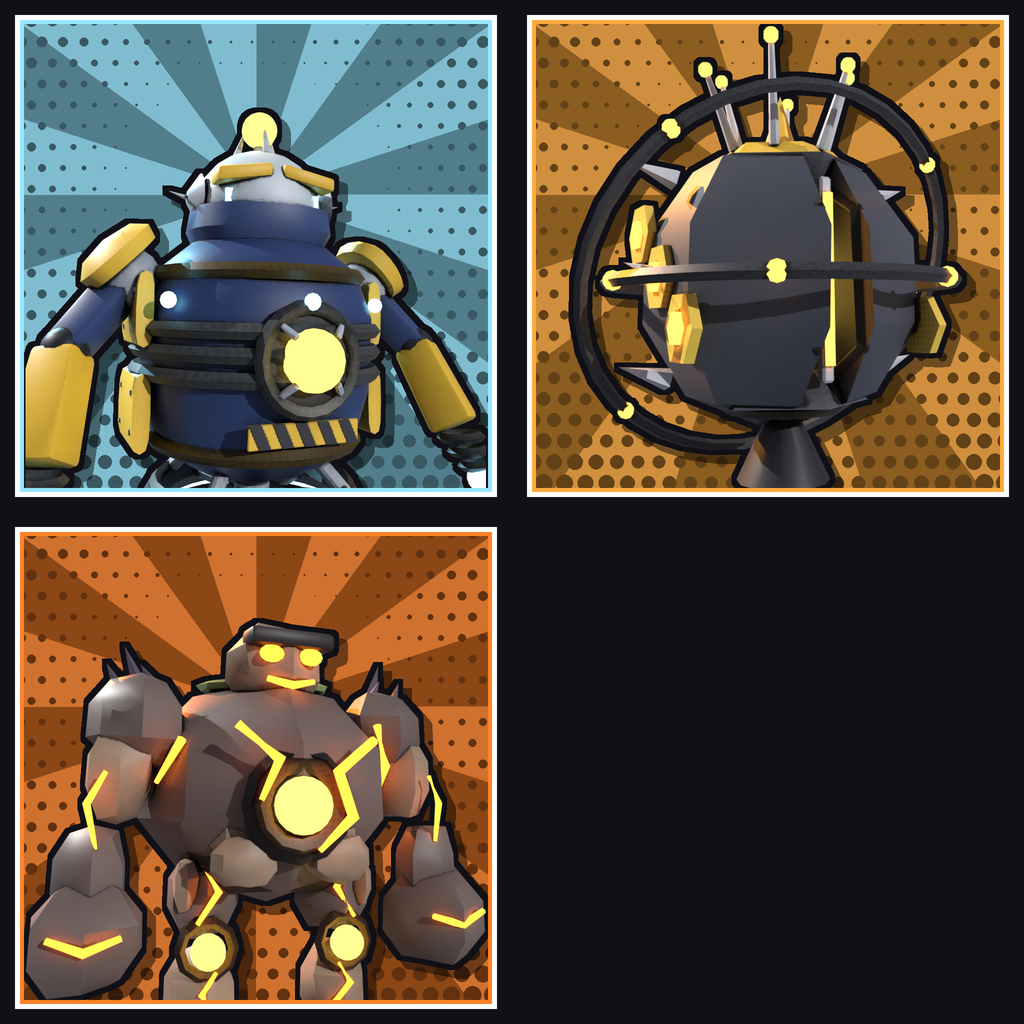
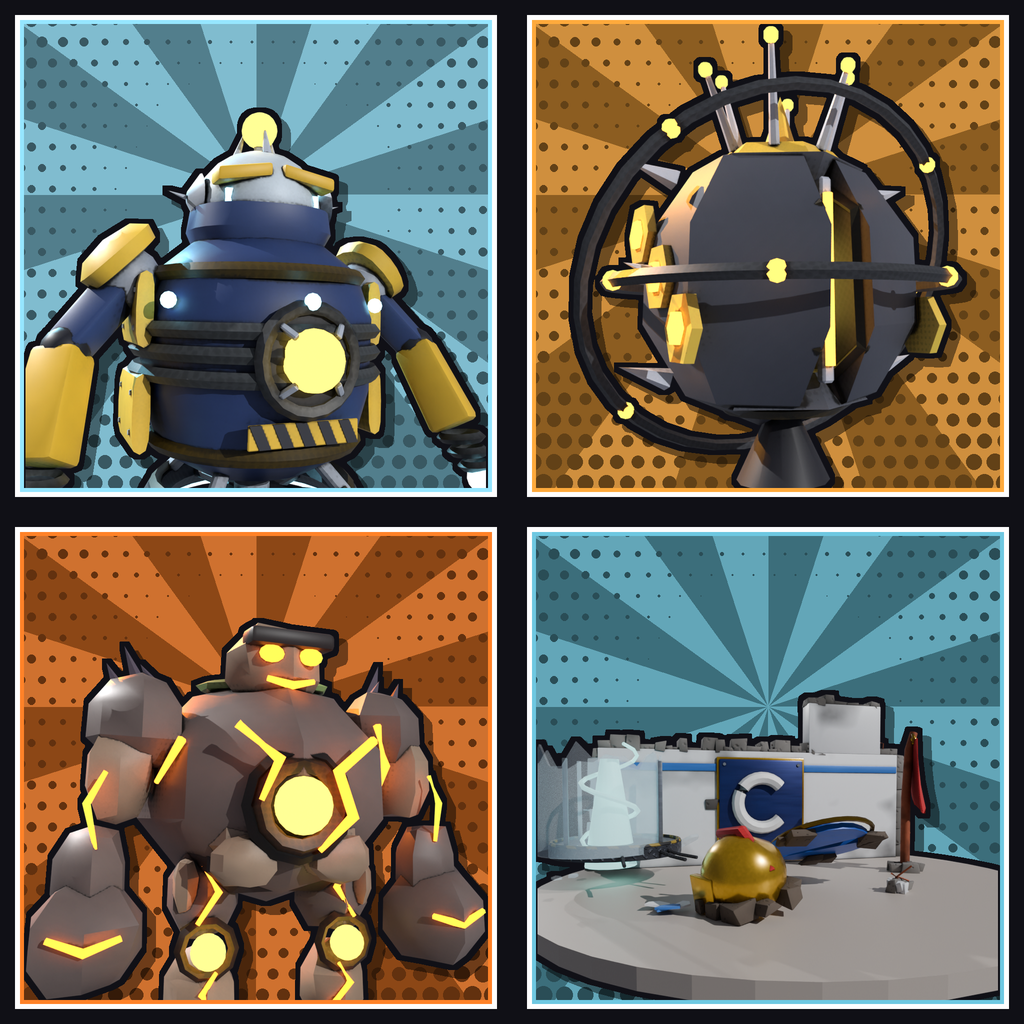
Art placeholders: the Crater's name card picture from its own meshes (Everything Left 403)
Claude-Session: https://claude.ai/code/session_01WrbiZfLxZ7sXqWZg3BvhRn

Changed region(s): [[0.5, 0.5, 1.0, 1.0]]

diff --git a/art/blender/place_cards.py b/art/blender/place_cards.py
@@ -1,0 +1,97 @@
+# place_cards.py: the places' name card pictures (list-combat 2026-11-20, Everything Left 403: "Places on the news
+# cards have no picture (text on the plate), for example the Crater"). Stages the game's own meshes for a place into
+# one comic shot on a clear background, into build/news/raw/place_<id>.png; art/news/post.py inks it onto the cards'
+# sheet like the boss portraits (Config.NewsArt.cards.places, Ui.CinemaHud's card picture).
+#   crater  The Crater (Config.Cinema.nameCard.places.crater): Crane Industries' broken lab wall with its C, a cracked
+#           containment tank with the Spark still glowing in it, and the old heroes' relics in front: the torn red
+#           cape on its rebar, the cracked blue shield half sunk in the dirt, the dented gold helmet (art/export/
+#           Crater.fbx with its baked textures). No person is drawn.
+# Run: $HOME/tools/bpyenv/bin/python art/blender/place_cards.py [--fast]
+import math
+import os
+import sys
+
+sys.path.insert(0, os.path.dirname(__file__))
+import kit  # noqa: E402
+import bpy  # noqa: E402
+from mathutils import Vector  # noqa: E402
+
+kit.reset()
+ROOT = os.path.dirname(kit.ROOT)
+OUT = os.path.join(ROOT, "build", "news", "raw")
+os.makedirs(OUT, exist_ok=True)
+FAST = "--fast" in sys.argv
+
+
+def load(fbx):
+    before = set(bpy.data.objects)
+    bpy.ops.import_scene.fbx(filepath=fbx)
+    got = {}
+    for o in set(bpy.data.objects) - before:
+        if o.type == "MESH":
+            got[o.name.split(".")[0]] = o
+        else:
+            bpy.data.objects.remove(o, do_unlink=True)
+    return got
+
+
+def clear_parent(o):
+    m = o.matrix_world.copy()
+    o.parent = None
+    o.matrix_world = m
+
+
+def place(o, at, yaw=0.0, tilt=(0.0, 0.0)):
+    clear_parent(o)
+    o.rotation_mode = "XYZ"
+    o.rotation_euler = (math.radians(tilt[0]), math.radians(tilt[1]), math.radians(yaw))
+    o.location = at
+    o.hide_render = False
+
+
+def crater():
+    obs = load(os.path.join(kit.ROOT, "export", "Crater.fbx"))
+    for o in obs.values():
+        o.hide_render = True
+    glass = kit.material("glass", (170, 220, 255))
+    try:
+        b = glass.node_tree.nodes.get("Principled BSDF")
+        b.inputs["Alpha"].default_value = 0.25
+        glass.blend_method = "BLEND"
+    except Exception:
+        pass
+    glow = kit.material("glow", (90, 240, 230), emit=1.5)
+    visor = kit.material("visor", (30, 40, 60))
+    # the scene: Blender x across, y away from the camera, z up (studs)
+    place(obs["CraterWall3Body"], (0, 12, 8), yaw=0)
+    place(obs["CraterTank1Body"], (-13, 5, 6))
+    for n, mat in (("CraterTank1Glass", glass), ("CraterTank1Glow", glow)):
+        place(obs[n], (-13, 5, 6))
+        obs[n].data.materials.clear()
+        obs[n].data.materials.append(mat)
+    place(obs["CraterCapeBody"], (11, 4, 6), yaw=-20)
+    place(obs["CraterShieldBody"], (1, -1, 3.2), yaw=8, tilt=(-28, 0))
+    place(obs["CraterHelmetBody"], (-5.5, -5, 2.4), yaw=30, tilt=(0, -12))
+    place(obs["CraterHelmetVisor"], (-5.5, -5, 2.4), yaw=30, tilt=(0, -12))
+    obs["CraterHelmetVisor"].data.materials.clear()
+    obs["CraterHelmetVisor"].data.materials.append(visor)
+    place(obs["CraterBitRubbleBody"], (6, -3, 0.8), yaw=40)
+    place(obs["CraterBitPlatesBody"], (-10, -4, 0.3), yaw=-20)
+    # the dirt floor, cut to a disc so the card's backdrop shows round it
+    bpy.ops.mesh.primitive_cylinder_add(radius=19, depth=1, location=(0, 3, -0.5), vertices=48)
+    floor = bpy.context.active_object
+    floor.data.materials.append(kit.material("dirt", (120, 104, 92)))
+    shot("crater", cam=(-11, -30, 7), to=(-2, 3, 5.5), lens=34)
+
+
+def shot(pid, cam, to, lens):
+    s = bpy.context.scene
+    kit.studio(res=(900, 900), samples=12 if FAST else 48)
+    s.render.film_transparent = True
+    kit.camera(cam, to, lens=lens)
+    path = os.path.join(OUT, "place_%s.png" % pid)
+    kit.render(path)
+    print("place card:", path)
+
+
+crater()

diff --git a/art/news/post.py b/art/news/post.py
@@ -47,6 +47,11 @@ BOSSES = [
     ("SwarmQueen", (255, 170, 60)),
     ("QuarryTitan", (255, 130, 40)),
 ]
+# the places' cards (Config.Cinema.nameCard.places; list-combat 2026-11-20, Everything Left 403): the staged shot
+# from art/blender/place_cards.py (build/news/raw/place_<id>.png), inked the same way, in the sheets' free cells
+PLACES = [
+    ("crater", (110, 200, 225)),  # the Crater card's slash colour
+]
 SHEETS = ("NewsCards.png", "NewsCards2.png")
 PLATE = (1024, 288)
 PLATE_SLICE = (48, 44, 72, 44)  # left, top, right, bottom margins kept unstretched
@@ -64,8 +69,8 @@ def ss(size, k=2):
 
 
 # ------------------------------------------------------------------ the boss portraits
-def portrait(bid, rgb):
-    raw = os.path.join(RAW, "boss_%s.png" % bid)
+def portrait(bid, rgb, raw_name=None):
+    raw = os.path.join(RAW, raw_name or ("boss_%s.png" % bid))
     if not os.path.isfile(raw):
         return None
     fig = Image.open(raw).convert("RGBA")
@@ -93,9 +98,11 @@ def cards_sheet():
         path = os.path.join(OUT, name)
         old = Image.open(path).convert("RGB") if os.path.isfile(path) else None
         sheet = Image.new("RGB", (CELL * 2, CELL * 2), INK)
-        for i, (bid, rgb) in enumerate(BOSSES[s * 4:s * 4 + 4]):
+        entries = BOSSES + [("place:" + pid, rgb) for (pid, rgb) in PLACES]
+        for i, (bid, rgb) in enumerate(entries[s * 4:s * 4 + 4]):
             c, r = i % 2, i // 2
-            img = portrait(bid, rgb)
+            raw = "place_%s.png" % bid[6:] if bid.startswith("place:") else None
+            img = portrait(bid, rgb, raw)
             if img is None:
                 if old is None:
                     raise SystemExit("post.py: no render and no old sheet for " + bid)
@@ -271,6 +278,14 @@ def write_config(at, ids):
     ]
     for bid, _ in BOSSES:
         lines.append("\t\t\t%s = { %d, %d, %d }," % (bid, at[bid][0], at[bid][1], at[bid][2]))
+    lines += [
+        "\t\t},",
+        "\t\t-- the places' cards (Config.Cinema.nameCard.places), in the same sheets",
+        "\t\tplaces = {",
+    ]
+    for pid, _ in PLACES:
+        k = "place:" + pid
+        lines.append("\t\t\t%s = { %d, %d, %d }," % (pid, at[k][0], at[k][1], at[k][2]))
     lines += [
         "\t\t},",
         "\t},",

diff --git a/notes/Tasks.md b/notes/Tasks.md
@@ -79,7 +79,7 @@ Pick the Swing mobility (creator or a safehouse). Preview of the maths over a re
 - Lore step 9 the Crater (2026-11-17; art pass 2026-11-19, gap-wrecks): the blasted Crane lab wears Blender meshes with baked texture sets over its boxes (art/blender/crater.py, Art.Crater, Config.CraterArt, Shared.CraterArtKit): 7 broken white lab walls with soot, rebar and the Crane C plate, the fallen wall chunk, 3 cracked glass tanks with their Spark glow, 2 toppled lab towers, the robot husk pile and the old heroes' relics (the torn red cape on its rebar, the cracked shield emblem, the half-buried gold helmet), plus loose lab bits per preset (Fx.CraterDecor: none on low). The boxes are hidden but kept exactly as they were (collision unchanged, tested); nothing imported shows today's kit parts (Studio list "Wrecks and the Crater"). Since 2026-11-19 (gap-fx3) the floor and rim wear their own ground (MaterialVariants KitCraterFloor, the cracked ash floor with scorch blotches and glassed spots, and KitCraterRim, the upthrown rock strata; art/city/crater_materials.py, Organic pattern, uploaded; Config.World.crater.ground, CaveRock until in) and the 10 burn strips wear 3 comic burn scar decals (art/fx/textures.py --scars, uploaded; Config.World.crater.scars.decals), boxes and collision unchanged (Studio list "Crater ground and throw particles"). Still plain: the 4 small husks' kit parts and the rim's 16 straight segments (no sculpted mesh). The Your double name card is the boss card's frames. PLACEHOLDER ART for those.
 - Lore step 8 world bosses (2026-11-17): the new Blender looks (art/export/Bosses.fbx + art/export/bosses/*.png) are imported (art/models/Bosses.rbxm, 87 meshes with their texture sets; checked 2026-11-20); the part-built looks (Config.BossArt parts, previews art/preview/boss_<Boss>_parts.png) show only if the set is missing. Rustjaw's sparks and the Leviathan's mist are pooled FxLib particles, the Maw's light streams 8 pooled Neon streaks; no animation beyond moving, turning, landing and sinking. Bulwark's battle form wears Bulwark's own look since 2026-11-20 (blue, silver, electric yellow, Hex Badge, Great Pauldrons, tower shield; Art.Bosses re-uploaded); only its WorldFx parts fallback is PLACEHOLDER ART. PLACEHOLDER ART.
 - Lore step 11 chain 1, The Hero Academy: the Halo Academy pocket (PocketLayout "academy": the school floor, classrooms with desk boxes and blackboards, the training hall's mats, dummies and hoops, Halo's statue, the bookcase, the stairs and the copier workshop's pods, conveyor and half-built robots) wears the pocket kit; its desks, chairs, hall lockers, dummies and pod pads are Blender meshes since 2026-11-19 (gap-props2, Art.PocketProps), the blackboards, hoops, statue, bookcase, conveyor and half-built robots stay boxes; the HALO ACADEMY sign by the door is plain parts with a text label; the field trip bus is the motorcade box; Wren's comic panels (school, scan) are rendered art (Config.ComicArt, 2026-11-19); Gus's and Wren's and Halo's guide portraits are rendered comic busts (Config.ComicArt, 2026-11-19). Gus and Headmaster Halo wear real creator looks. PLACEHOLDER ART.
-- Lore step 7 cinematic layer: art done 2026-11-19. The comic-panel pages are rendered art (Config.ComicArt, 64 panels: art/blender/panels.py + scenes.py, art/panels/post.py); the big news screens and the plaza screen's frame are Blender looks with baked texture sets (gap-news: art/blender/screens.py, Art.News, Config.ScreenArt, Shared.NewsArtKit; NewsService hides the plain frame and legs, the screen part and collisions unchanged); the boss name card is a drawn comic plate with each world boss's rendered comic portrait (event cards such as Your double show the event's icon) and the corner TV sits in a drawn comic TV case with the channel's lighthouse mark on its band and on every big screen's band (art/blender/boss_cards.py, art/news/post.py, Config.NewsArt; previews art/preview/news_screens.png, news_art.png). All words stay UI text. The frame-drawn fallbacks stay for an id of 0. The side quest finale villains' cards show each villain's rendered portrait since 2026-11-19 (gap-villains: art/panels/villains.py, Config.VillainArt, Shared.VillainCards). Still open: the places' cards (the Crater's) have no picture (text on the plate); the battle form's title waits for its pass.
+- Lore step 7 cinematic layer: art done 2026-11-19. The comic-panel pages are rendered art (Config.ComicArt, 64 panels: art/blender/panels.py + scenes.py, art/panels/post.py); the big news screens and the plaza screen's frame are Blender looks with baked texture sets (gap-news: art/blender/screens.py, Art.News, Config.ScreenArt, Shared.NewsArtKit; NewsService hides the plain frame and legs, the screen part and collisions unchanged); the boss name card is a drawn comic plate with each world boss's rendered comic portrait (event cards such as Your double show the event's icon) and the corner TV sits in a drawn comic TV case with the channel's lighthouse mark on its band and on every big screen's band (art/blender/boss_cards.py, art/news/post.py, Config.NewsArt; previews art/preview/news_screens.png, news_art.png). All words stay UI text. The frame-drawn fallbacks stay for an id of 0. The side quest finale villains' cards show each villain's rendered portrait since 2026-11-19 (gap-villains: art/panels/villains.py, Config.VillainArt, Shared.VillainCards). The places' cards show a staged picture since 2026-11-20 (list-combat: the Crater's broken Crane lab wall, a cracked tank and the old heroes' relics from Art.Crater's meshes, art/blender/place_cards.py, inked by art/news/post.py into NewsCards2's free cell, Config.NewsArt.cards.places). The battle form's title waits for its pass.
 - Lore step 11 chain 2, The Gala Heist (2026-11-17): the Museum Gala and the Racers' Meet set pieces in Downtown's open squares (Shared.SideQuestSets: carpet, stage, curtains, marquee, chandelier, exhibit cases, seats, spotlights; start line, gantry and lights, 3 box cars, tyre stacks, fuel drums, DJ booth, floodlights, ramp) are greybox parts with text-label signs; the BRIGHTHARBOR BANK sign is plain parts with a text label; the rooftop race rings are the SiteKit rings; Benny's, Masque-a-rade's and Redline's guide portraits are rendered comic busts (Config.ComicArt, 2026-11-19); the villains' powered suits are the fake look path (no own meshes). PLACEHOLDER ART.
 - Lore step 11 chain 3, Wind-Up Lane (Suburbs): the Tick-Tock Toys pocket (PocketLayout "toyshop": shelves, toys, the rug and train ring, the music box, the counter, the stairs, the winders, pipes, the Tantrum Tap tank and the toy benches) wears the pocket kit since 2026-11-19 (Config.PocketKit toyshop: brick, mint walls, honey planks, bunting, a comic sign board; Studio list "Pocket kit"); the TICK-TOCK TOYS sign by the city door is a comic sign board (SignKit); Scoops's ice cream truck is the motorcade box; the wind-up key on the toys' backs is plain parts (EnemyRenderer body.windKey); the two toy kinds' uniforms are drawn and final (art/export/clothes/uniforms/WindupToy_* and WindupGiant_*, the Giant as the toy band's drummer since 2026-11-18; previews art/preview/uniforms_templates_toys.png and, on the body front and back, uniforms_chains.png) but their ids are 0 until nate uploads them (until then they wear the plain or shell look in the toy colours); Toby's comic panels (toyshop, gnome, tantrum, tap) are rendered art (Config.ComicArt, 2026-11-19); the Toymaker's and Toby's guide portraits are rendered comic busts (Config.ComicArt, 2026-11-19). Scoops wears a real creator look. PLACEHOLDER ART.
 - Lore step 11 chain 4, The Harvest King (2026-11-17): the Bramblebeast is a creator look (Titan build, the glowing Energy skin, vine suit, wild mane, antlers, leafy cape) on the blocky rig, not a creature mesh; its light burst is neon balls (EnemyRenderer.lightBurst); the Harvest King's thresher suit is the fake look path (no own mesh); the scarecrow bots are the existing Burglar and Brute Bots; the FURROW FARM and THE KING'S ACRE signs are plain parts with a text label; the farm truck is the motorcade box; the comic panels (farm, sprout, beast) are rendered art (Config.ComicArt, 2026-11-19); Dot's straw hat and the King's crown portraits are rendered comic busts (Config.ComicArt, 2026-11-19). PLACEHOLDER ART.
@@ -2276,4 +2276,5 @@ Storyboard (the game's own camera on the test seed, stand-in figures): art/previ
 37. Block looks (Art.Guard, art/preview/guard.png): hold BLOCK: a blue domed shield with a raised hexagon and an eight-sided rim snaps up in front of the chest, its rim reddens and flickers as Guard drains, and it kicks on each blocked hit. Let a BruteBot block: a faceted blue bubble turns slowly round it; when it drops a few shards fly off. Perfect-block a hit: a yellow starburst faces the camera and spins out; get shattered: the starburst plus eight crystal shards. Check the shield does not hide your hero's face from the default camera and reads on phones.
 38. Juice (Art.Juice, Config.Ui.juiceArt; art/preview/juice.png, juice_ui.png): defeat a robot: six gold coins with a sparkle flip out and drop. Rescue a citizen: a green ring with outward ticks spreads and turns. Pick up a Legendary drop: a twisting column of light in the tier colour over a ring. Beat a boss: spiky bursts in the sky over rings, and paper confetti (curls, stars, dots, triangles) falls. Respawn: a turning geodesic bubble round you for 5 s. Get stunned in PvP: three gold stars circle your head. Clear an incident: the stamp has a worn ink double frame in the medal colour; level up: the gold medallion with ribbons spins in under the number. With Reduce flashing on nothing spins.
 39. WANTED poster and heads (Art.NemParts, Config.Hq.wanted.paper): in your HQ with a nemesis (DEV > Nemesis 1) the poster is an aged, torn, folded bill with an inked border, the halftone band behind WANTED and a ruled frame round the bust; the wood or steel board shows past the torn edge and the bottom-right corner. Beat nemeses of each head kind (DEV) and check the trophy heads: glowing lens eyes, a glass dome with metal ribs, a cyclops eye in a metal hood, a ribbed neck on the bust, chevron chest plates, a shoulder cannon with cooling rings pointing forward, a green heal drone in a white ring, a segmented antenna. B (Read) still opens the WANTED panel.
+40. Crater card (Config.NewsArt.cards.places): walk into the Crater for the first time this session: the name card THE CRATER / WHERE THE OLD HEROES FELL shows a picture on its left: the broken white lab wall with the Crane C, a cracked glowing tank, the gold helmet, the blue shield and the red cape over a teal sunburst, inked like the boss cards.
 

diff --git a/notes/Decisions.md b/notes/Decisions.md
@@ -925,3 +925,4 @@ Drafts for nate only (WP11, 2026-11-18). None of these is in code or config; the
 - 2026-11-20 (list-combat, Everything Left 384): the block's looks are Blender meshes (art/blender/guard.py, Config.GuardArt, Art.Guard, model 77332931422916): the held shield is a domed ForceField face (0.15 of its size thick) with a raised hexagon and six spokes, one eight-sided Neon rim mesh (it still reddens and flickers with Guard) and a hex core; robots' and the War-Frame's blocks are a geodesic ForceField bubble turning slowly; perfect and cut flash a camera-facing starburst; a shatter adds 8 crystal shards and a robot's dropped block 5; the old discs, balls and rim blocks stay as the fallback.
 - 2026-11-20 (list-combat, Everything Left 386): the juice pieces are art: Blender meshes (art/blender/juice.py, Config.JuiceArt, Art.Juice, model 128179176716861: the struck Credit coin, a puffy dazed star, the glow ring with ticks, the twisting tier beam, the spiky firework burst) and PIL pictures (art/ui/juice_ui.py, Config.Ui.juiceArt: stamp frame 130467031750054 tinted per stamp, level badge 138482713675163, confetti sheet 79631498004206); the respawn shield reuses Art.Guard's bubble; reduce flashing stops every spin; the old parts and frames stay as the fallback.
 - 2026-11-20 (list-combat, Everything Left 397): the nemesis heads' and bust's last plain pieces are shaped: art/blender/nemparts.py (Config.NemPartArt in HqArt's format, Art.NemParts, model 115506101257377) adds HqArtKit.SHAPES eye, dome (+ribs), cyclopsEye (+hood), neck, plates, cannon, healDrone (+frame) and antenna under look HqNemParts; SetPieceKit.fit reads NemPartArt and HqMeshes looks in Art.NemParts too; the WANTED poster's paper is a printed bill (art/ui/wanted_paper.py, image 95684161485953, Config.Hq.wanted.paper) under the same SurfaceGui words and bust, the paper part going clear so the torn edge shows the board.
+- 2026-11-20 (list-combat, Everything Left 403): a place's name card gets a picture like a boss's: art/blender/place_cards.py stages the place's own game meshes on a clear background (the Crater: Art.Crater's wall 3 with the Crane C, tank 1, the cape, shield and helmet), art/news/post.py inks it into a free cell of the boss sheets (PLACES; NewsCards2 now 86361612958243, cell 1,1), Config.NewsArt.cards.places, NewsArtKit.place, CinemaHud picture kind "place"; the Crater is the only place card today.
